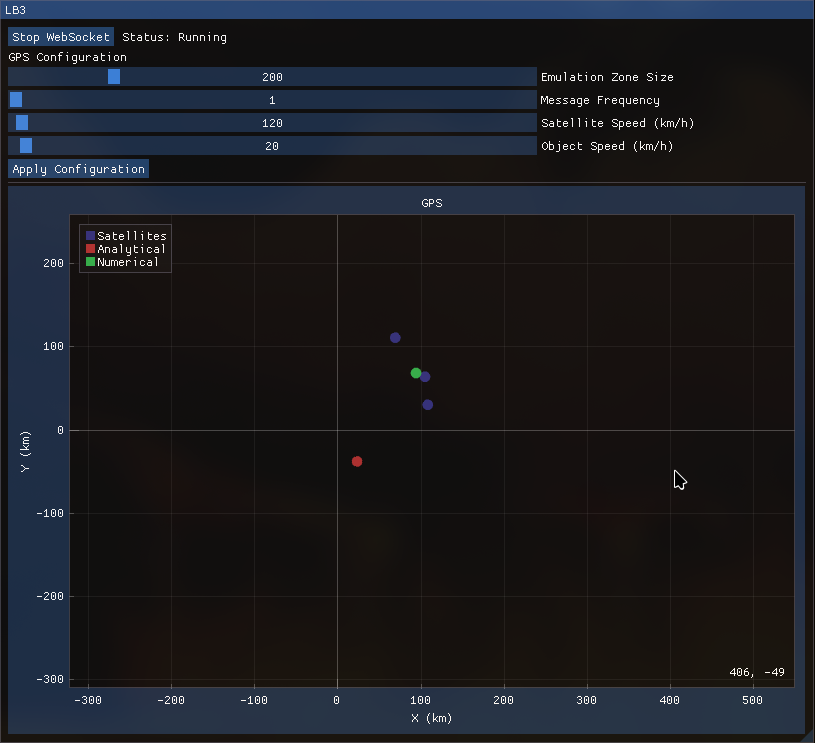
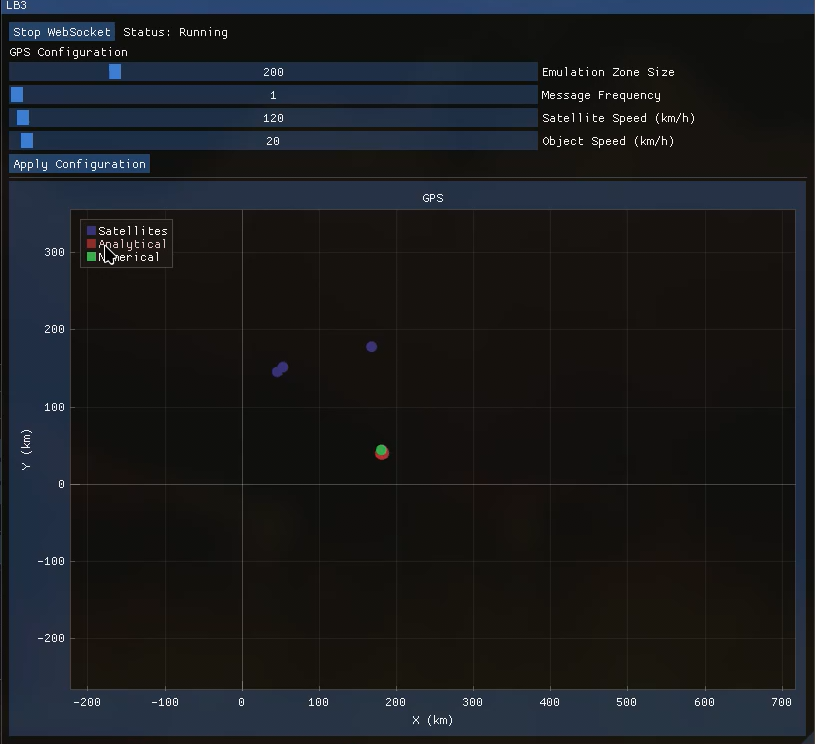
fixed analytical method

diff --git a/Homeworks/coordSystem/App/Source/LB3/LB3.cpp b/Homeworks/coordSystem/App/Source/LB3/LB3.cpp
@@ -4,9 +4,20 @@
 #include "imgui.h"
 
 #include <nlohmann/json.hpp>
+#include <SDL3/SDL_time.h>
 
 #include "implot.h"
 using json = nlohmann::json;            // from <nlohmann/json.hpp>
+
+#include <chrono>
+
+uint64_t getUnixTimeMs() {
+    return static_cast<uint64_t>(
+        std::chrono::duration_cast<std::chrono::milliseconds>(
+            std::chrono::system_clock::now().time_since_epoch()
+        ).count()
+    );
+}
 
 namespace App
 {
@@ -26,6 +37,7 @@ namespace App
                 throw std::runtime_error("Invalid JSON");
             }
 
+
             const std::string id = j["id"];
             SatelliteData data
             {
@@ -35,13 +47,22 @@ namespace App
                 j["receivedAt"]
             };
 
+
             std::lock_guard<std::mutex> lock(m_mtx);
 
-            m_satellitesData.insert_or_assign(id, data);
-            if (m_satellitesData.size() > 3)
+            const auto it = std::ranges::find_if(m_satellitesData,
+                                                 [&id](const auto& p){ return p.first == id; });
+
+            if (it != m_satellitesData.end())
             {
-                const auto it = m_satellitesData.begin();
-                m_satellitesData.erase(it);
+                it->second = data;
+            }
+            else
+            {
+                m_satellitesData.emplace_back(id, data);
+
+                if (m_satellitesData.size() > 3)
+                    m_satellitesData.erase(m_satellitesData.begin());
             }
         }
         catch (std::exception& e)
@@ -68,21 +89,22 @@ namespace App
 
         float A = 2 * (x2 - x1);
         float B = 2 * (y2 - y1);
-        float C = r1*r1 - r2*r2 - x1*x1 + x2*x2 - y1*y1 + y2*y2;
+        float C = r1*r1 - r2*r2 - x1*x1 - y1*y1 + x2*x2 + y2*y2;
 
         float D = 2 * (x3 - x2);
         float E = 2 * (y3 - y2);
-        float F = r2*r2 - r3*r3 - x2*x2 + x3*x3 - y2*y2 + y3*y3;
+        float F = r2*r2 - r3*r3 - x2*x2 - y2*y2 + x3*x3 + y3*y3;
+        //float F = r1*r1 - r3*r3 - x1*x1 + x3*x3 - y1*y1 + y3*y3;
 
         float denominator1 = (E * A - B * D);
         float denominator2 = (B * D - A * E);
 
-        if (std::abs(denominator1) == 0 || std::abs(denominator2) == 0)
+        if (denominator1 == 0 || denominator2 == 0)
             return std::nullopt;
 
         ObjectPosition pos{};
         pos.x = (C * E - F * B) / denominator1;
-        pos.y = (A * F - D * C) / denominator2;
+        pos.y = (C * D - A * F) / denominator2;
 
         if (std::isnan(pos.x) || std::isnan(pos.y))
             return std::nullopt;
@@ -156,8 +178,8 @@ namespace App
 
     float LB3::SatelliteData::GetDistance() const
     {
-        constexpr float LIGHTSPEED { 300000.0f };
-        const float timeDelay { static_cast<float>(receivedAt - sentAt) / 1000.0f };
+        constexpr float LIGHTSPEED { 299792.458f };
+        const float timeDelay { static_cast<float>(receivedAt - sentAt) / 1000.f };
         return LIGHTSPEED * timeDelay;
     }
 
@@ -271,7 +293,7 @@ namespace App
             if (distanceToCenter < hover_radius)
             {
                 ImPlot::Annotation(x, y, color, ImVec2(10,10), false,
-                "X: %.2f\nY: %.2f km", x, y);
+                                   "X: %.2f\nY: %.2f km", x, y);
             }
         }
     }

diff --git a/Homeworks/coordSystem/App/Source/LB3/LB3.h b/Homeworks/coordSystem/App/Source/LB3/LB3.h
@@ -4,8 +4,6 @@
 #include "Core/Layer.h"
 #include "WebSocketClient.h"
 
-#include <map>
-
 #include "imgui.h"
 
 namespace App
@@ -14,17 +12,17 @@ namespace App
     {
     public:
         /**
-        * @param id: Унікальний ідентифікатор супутника (UUID).
-        * @param xy: Координати супутника у декартових координатах (кілометри).
-        * @param sentAt: Час відправки повідомлення супутником (мілісекунди з початку епохи Unix).
-        * @param receivedAt: Час отримання повідомлення об'єктом (мілісекунди з початку епохи Unix).
-        */
+         * @param id: Унікальний ідентифікатор супутника (UUID).
+         * @param xy: Координати супутника у декартових координатах (кілометри).
+         * @param sentAt: Час відправки повідомлення супутником (мілісекунди з початку епохи Unix).
+         * @param receivedAt: Час отримання повідомлення об'єктом (мілісекунди з початку епохи Unix).
+         */
         struct SatelliteData
         {
             float x;
             float y;
-            uint64_t sentAt;
-            uint64_t receivedAt;
+            long double sentAt;
+            long double receivedAt;
 
             [[nodiscard]] float GetDistance() const;
         };
@@ -49,23 +47,21 @@ namespace App
         void HandleMessage(const std::string& msg);
 
         /**
-        * @param Використовується трилитерація
-        */
+         * @param Використовується трилитерація
+         */
         std::optional<ObjectPosition> CalculateAnalytical();
 
         /**
-        * @param Використовується трилитерація
-        */
+         * @param Використовується трилитерація
+         */
         std::optional<ObjectPosition> CalculateNumerical();
     private:
         int emulationZoneSize { 200 };
         int messageFrequency { 1 };
         int satelliteSpeed { 120 };
         int objectSpeed { 20 };
-        std::map<std::string, SatelliteData> m_satellitesData;
-        std::map<std::string, SatelliteData> m_satellitesDataCopy;
-        //std::list<std::pair<std::string, SatelliteData>> m_satellitesData;
-        //std::list<std::pair<std::string, SatelliteData>> m_satellitesDataCopy;
+        std::vector<std::pair<std::string, SatelliteData>> m_satellitesData;
+        std::vector<std::pair<std::string, SatelliteData>> m_satellitesDataCopy;
 
         std::optional<ObjectPosition> m_analyticalPosition;
         std::optional<ObjectPosition> m_numericalPosition;

diff --git a/Homeworks/3/report.md b/Homeworks/3/report.md
@@ -311,8 +311,8 @@ namespace App
         {
             float x;
             float y;
-            uint64_t sentAt;
-            uint64_t receivedAt;
+            long double sentAt;
+            long double receivedAt;
 
             [[nodiscard]] float GetDistance() const;
         };
@@ -369,9 +369,20 @@ namespace App
 #include "imgui.h"
 
 #include <nlohmann/json.hpp>
+#include <SDL3/SDL_time.h>
 
 #include "implot.h"
 using json = nlohmann::json;            // from <nlohmann/json.hpp>
+
+#include <chrono>
+
+uint64_t getUnixTimeMs() {
+    return static_cast<uint64_t>(
+        std::chrono::duration_cast<std::chrono::milliseconds>(
+            std::chrono::system_clock::now().time_since_epoch()
+        ).count()
+    );
+}
 
 namespace App
 {
@@ -391,6 +402,7 @@ namespace App
                 throw std::runtime_error("Invalid JSON");
             }
 
+
             const std::string id = j["id"];
             SatelliteData data
             {
@@ -399,6 +411,7 @@ namespace App
                 j["sentAt"],
                 j["receivedAt"]
             };
+
 
             std::lock_guard<std::mutex> lock(m_mtx);
 
@@ -441,22 +454,22 @@ namespace App
 
         float A = 2 * (x2 - x1);
         float B = 2 * (y2 - y1);
-        float C = r1*r1 - r2*r2 - x1*x1 + x2*x2 - y1*y1 + y2*y2;
+        float C = r1*r1 - r2*r2 - x1*x1 - y1*y1 + x2*x2 + y2*y2;
 
         float D = 2 * (x3 - x2);
         float E = 2 * (y3 - y2);
-        float F = r2*r2 - r3*r3 - x2*x2 + x3*x3 - y2*y2 + y3*y3;
+        float F = r2*r2 - r3*r3 - x2*x2 - y2*y2 + x3*x3 + y3*y3;
         //float F = r1*r1 - r3*r3 - x1*x1 + x3*x3 - y1*y1 + y3*y3;
 
         float denominator1 = (E * A - B * D);
         float denominator2 = (B * D - A * E);
 
-        if (std::abs(denominator1) == 0 || std::abs(denominator2) == 0)
+        if (denominator1 == 0 || denominator2 == 0)
             return std::nullopt;
 
         ObjectPosition pos{};
         pos.x = (C * E - F * B) / denominator1;
-        pos.y = (A * F - D * C) / denominator2;
+        pos.y = (C * D - A * F) / denominator2;
 
         if (std::isnan(pos.x) || std::isnan(pos.y))
             return std::nullopt;
@@ -530,8 +543,8 @@ namespace App
 
     float LB3::SatelliteData::GetDistance() const
     {
-        constexpr float LIGHTSPEED { 300000.0f };
-        const float timeDelay { static_cast<float>(receivedAt - sentAt) / 1000.0f };
+        constexpr float LIGHTSPEED { 299792.458f };
+        const float timeDelay { static_cast<float>(receivedAt - sentAt) / 1000.f };
         return LIGHTSPEED * timeDelay;
     }
 
@@ -665,7 +678,7 @@ namespace App
 
 ```
 
-Вікно працючого додатка
+Вікно працючого додатка 
 ![3](./screenshots/3.png)
 
 
